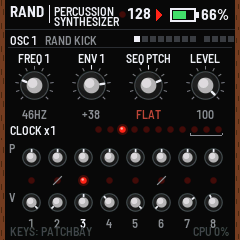
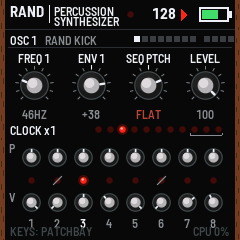
Akku: nur das Symbol, größer, ganz rechts (ohne Prozent)
Claude-Session: https://claude.ai/code/session_019gwqiQtDQMDhbyr4rsBLLJ

Changed region(s): [[0.4958, 0.0292, 0.9625, 0.1167]]

diff --git a/app.c b/app.c
@@ -1061,12 +1061,11 @@ static void battery_read(void)
         bat.shown = (int)i;
 }
 
-/* der Akku im Kopf: ein klares Symbol (Rahmen, Pol, Füllung in Ampelfarben, beim Laden ein Blitz) und die Prozent
- * groß daneben; unter 10 % blinkt er */
+/* der Akku im Kopf: ein klares Symbol (Rahmen, Pol, Füllung in Ampelfarben, beim Laden ein Blitz); unter 10 %
+ * blinkt er */
 static void draw_battery(int32_t x, int32_t y, uint32_t now)
 {
-    int32_t w = 26, h = 14, fill, pct = bat.shown;
-    char t[8];
+    int32_t w = 30, h = 15, fill, pct = bat.shown;
     uint16_t c;
     if (bat.mode == BAT_NONE)
         return;
@@ -1098,14 +1097,6 @@ static void draw_battery(int32_t x, int32_t y, uint32_t now)
                 if (BOLT[r][q] == '#')
                     cv_rect(bx + q, by + r, 1, 1, C_LABEL);
     }
-    t[0] = 0;
-    if (bat.mode == BAT_USB && pct >= 99)
-        text_cat(t, "USB");
-    else {
-        int_text(pct, t);
-        text_cat(t, "%");
-    }
-    cv_text(x + w + 5, y - 1, &FONT_B, t, pct < 15 && bat.mode == BAT_CELL ? C_LED : C_LABEL);
 }
 
 static void draw(void)
@@ -1124,19 +1115,19 @@ static void draw(void)
         cv_rect(x + 5, 5, 1, 18, C_LABEL);
         cv_text(x + 10, 4, &FONT_XS, "PERCUSSION", C_LABEL);
         cv_text(x + 10, 14, &FONT_XS, "SYNTHESIZER", C_LABEL);
-        led(122, 14, rnd_level(&eng) > 0.3f);
+        led(130, 14, rnd_level(&eng) > 0.3f);
         t[0] = 0;
         int_text((int32_t)((eng.ext ? rnd_bpm(&eng) : (float)set.bpm) + 0.5f), t);
-        cv_text(151 - text_w(&FONT_B, t), 6, &FONT_B, t, eng.ext ? C_LED : C_LABEL);   /* rot: im Takt von außen */
+        cv_text(176 - text_w(&FONT_B, t), 6, &FONT_B, t, eng.ext ? C_LED : C_LABEL);   /* rot: im Takt von außen */
         if (ui.playing) {
             int32_t i;
             for (i = 0; i < 6; i++)
-                cv_rect(156 + i, 9 + i, 1, 12 - 2 * i, C_LED);
+                cv_rect(181 + i, 9 + i, 1, 12 - 2 * i, C_LED);
         } else {
-            cv_rect(155, 10, 9, 9, C_SUB);
+            cv_rect(180, 10, 9, 9, C_SUB);
         }
     }
-    draw_battery(170, 8, now);
+    draw_battery(199, 7, now);
     cv_rect(5, 29, 230, 1, RGB(44, 44, 48));
     cv_blit(0, 0);
     cv_begin(240, 110, C_PANEL);

diff --git a/README.md b/README.md
@@ -26,9 +26,8 @@ If the FM-1 ever runs short of time (the load over 88 % for a second), RAND drop
 ## The battery
 
 The battery is always on screen, top right: a clear symbol filled green, amber under 40 %, red under 15 % (it blinks
-under 10 %), with the percentage beside it. On a USB cable a lightning bolt shows the cell charging, and `USB` when it
-is full. The percentage comes from the cell's voltage along a lithium-ion discharge curve: an estimate, not yet
-calibrated on an FM-1.
+under 10 %). On a USB cable a lightning bolt shows that the FM-1 is on power. The level comes from the cell's voltage
+along a lithium-ion discharge curve: an estimate, not yet calibrated on an FM-1.
 
 ## The sequencer
 
